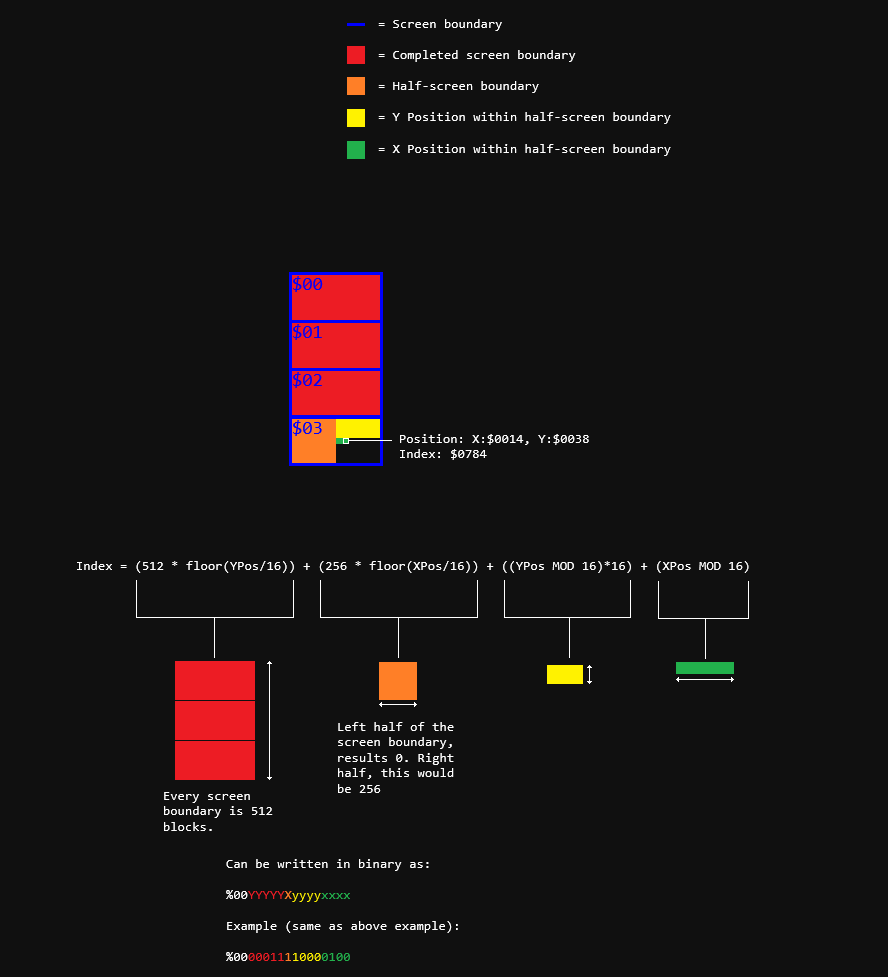
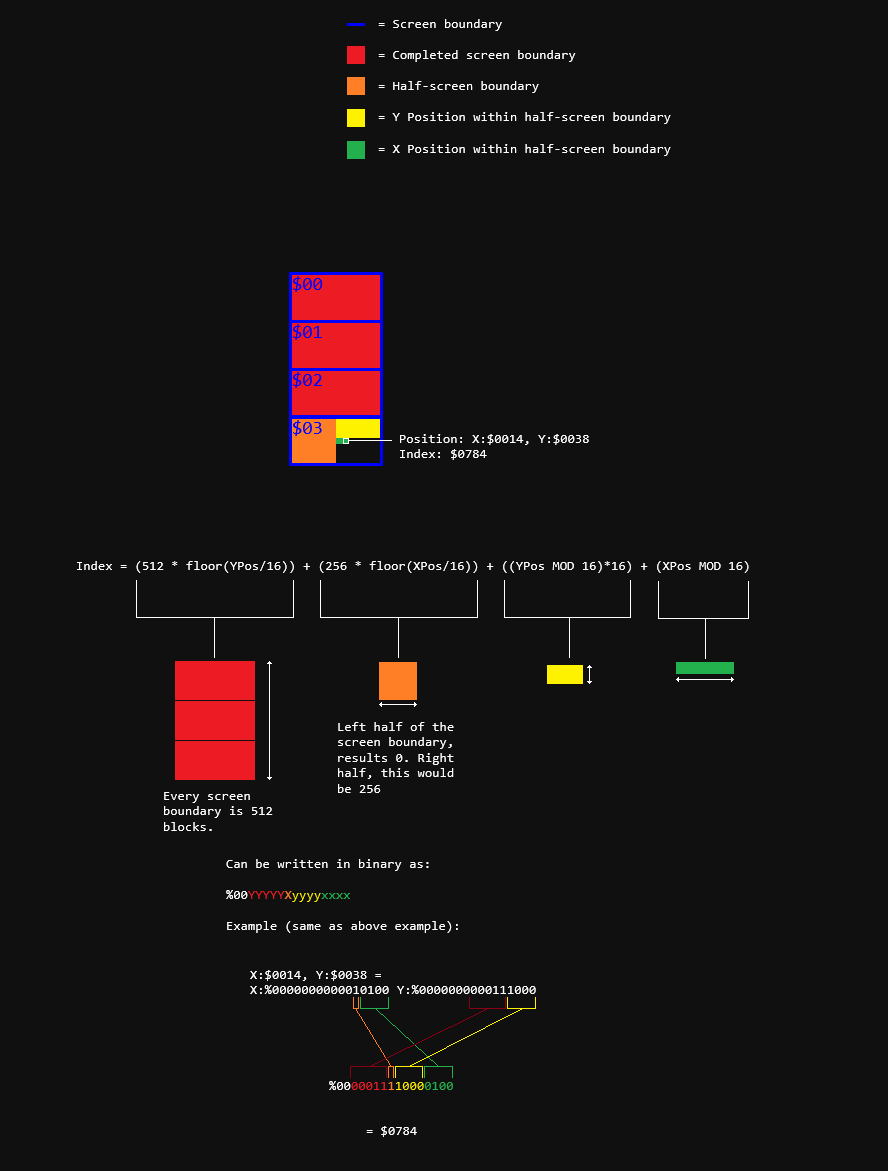
better explanation

diff --git a/C800DataFormatExplained.html b/C800DataFormatExplained.html
@@ -62,7 +62,7 @@
 	</ol>
 </div>
 <h1><a id="TOC_Introduction" href="#TOCBack_Introduction">^</a>Introduction</h1>
-<p>In SMW, when any level save for boss levels is loaded, the tile data, which keeps track of every tile on how Mario and sprites interact with blocks on layer 1 (or layer 2), are stored in RAM <kbd>$7EC800</kbd> for low byte map16 numbers and <kbd>$7FC800</kbd> for the high bytes.</p>
+<p>In SMW, during levels, save for boss levels, is loaded, the tile data, which keeps track of every tile on how Mario and sprites interact with blocks on layer 1 (or layer 2), are stored in RAM <a href="https://smwc.me/m/smw/ram/7EC800"><kbd>$7EC800</kbd></a> for low byte map16 numbers and <a href="https://smwc.me/m/smw/ram/7FC800"><kbd>$7FC800</kbd></a> for the high bytes.</p>
 
 <p>In a SA-1 game, it would be at address <kbd>$40C800</kbd> and <kbd>$41C800</kbd> instead.</p>
 
@@ -104,7 +104,7 @@ Therefore they correspond:
 differs depending on horizontal level and vertical level. Since LM added custom horizontal level dimensions, that also differs the layout of the blocks.</p>
 <p>Notes:
 	<ul>
-		<li>Coordinates discussed here are in units of blocks, not pixels. To convert pixels to blocks, do <span class="MathFormula">BlockXPos = floor(PixelXPos/16)</span> and <span class="MathFormula">BlockYPos = floor(PixelYPos/16)</span>. <a href="https://en.wikipedia.org/wiki/Floor_and_ceiling_functions"><kbd>floor()</kbd></a> is a function
+		<li>Coordinates discussed here are in units of blocks, not pixels. To convert pixel coordinates to block coordinates, do <span class="MathFormula">BlockXPos = floor(PixelXPos/16)</span> and <span class="MathFormula">BlockYPos = floor(PixelYPos/16)</span>. <a href="https://en.wikipedia.org/wiki/Floor_and_ceiling_functions"><kbd>floor()</kbd></a> is a function
 		that rounds down a number; picking the highest integer less-than or equal to the input.</li>
 		<li>As always, X increases going rightwards, and Y increases going downwards. 2D Computer graphics often have the Y-axis orientated downwards, the same way how we read english text.</li>
 	</ul>
@@ -116,9 +116,11 @@ differs depending on horizontal level and vertical level. Since LM added custom 
 	<img src="Readme_files/SMW_RowMajorBlocksPerScreen.png">
 	</p>
 	
-	<p>Now, I used the term &ldquo;screen columns&rdquo; for a reason. When enumerating past the last block within the screen exit boundary (the blue-bordered chunks seen in Lunar Magic when &ldquo;View Screen Exits&rdquo;) is turned on,
-	you advance to the top-leftmost block of a screen exit <b>below</b>, rather than the screen exit <b>to the right</b> (unlike the screen exit numbering). If the bottom of the level is reached, then it would be the top screen exit to the right:
-	<img src="Readme_files/SMW_ColumnMajorScreenColumn.png">
+	<p>Now, I used the term &ldquo;screen columns&rdquo; for a reason. When enumerating past the last block within the screen exit boundary (the blue-bordered chunks seen in Lunar Magic when &ldquo;View Screen Exits&rdquo; is turned on),
+	you advance to the top-leftmost block of a screen exit <b>below</b>, rather than the screen exit <b>to the right</b> (unlike the screen exit numbering). If the bottom of the level is reached, however, then it would be the top screen exit to the right, for example:
+	<img src="Readme_files/SMW_ColumnMajorScreenColumn.png"><br>
+	Starting from screen $00, blocks are enumerated left to right, and going past the rightmost block in the screen column, the next block would be the leftmost block but now down a row, and repeats. When the bottom row's last block in a screen exit boundary is reached (shown in red),
+	the next block would be the top-leftmost block the screen below (in orange). Finally, when reaching the bottom of the level, after the last block in the screen column (yellow), the next block would be the first block of the next column (green).
 	</p>
 	<div class="Indent">
 		<h2><a id="TOC_CalculateHorizLevels" href="#TOCBack_CalculateHorizLevels">^</a>Calculating Index &lt;-&gt; Coordinates of horizontal levels</h2>
@@ -128,7 +130,7 @@ differs depending on horizontal level and vertical level. Since LM added custom 
 		<p>Formula in text form:
 			<ul>
 				<li>Obtain Index: <span class="MathFormula">Index = (BlocksPerScrnCol * floor(XPos/16)) + (YPos*16) + (XPos MOD 16)</span></li>
-				<li>Obtain X and Y positions:
+				<li>Obtain X and Y positions (lots of <a href="https://en.wikipedia.org/wiki/Euclidean_division">euclidean division</a> being used):
 					<ul>
 						<li class="MathFormula">XPos = (floor(BlockIndex/BlocksPerScreenColumn)*16) + (Index MOD 16)</li>
 						<li class="MathFormula">YPos = floor((BlockIndex MOD BlocksPerScreenColumn)/16)</li>
@@ -138,8 +140,8 @@ differs depending on horizontal level and vertical level. Since LM added custom 
 			Notes:
 			<ul>
 				<li>
-					RAM <kbd><a href="https://smwc.me/m/smw/ram/7E13D7">$13D7 ($73D7 in SA-1)</a></kbd> is the level height in pixels, because of powers of 2 and every screen column in horizontal levels are always 16 blocks wide, this is also
-					the number of blocks per screen column.
+					RAM <kbd><a href="https://smwc.me/m/smw/ram/7E13D7">$13D7 ($73D7 in SA-1)</a></kbd> is the level height in pixels, but because every screen column in horizontal levels are always 16 blocks wide, and that blocks are always 16 pixels high,
+					this is also the number of blocks per screen column (we do this: <span class="MathFormula">LevelHeightInBlocks = LevelHeightInPixels / 16 pixels per block</span> &rarr; <span class="MathFormula">BlocksPerScreenColumn = LevelHeightInBlocks * 16</span>, resulting in dividing by 16, then multiplying back up by 16).
 				</li>
 				<li>
 					<kbd>Mod</kbd> is the modulo operator, the remainder of dividing two numbers. For example: <span class="MathFormula">18/16</span>, in <a href="https://en.wikipedia.org/wiki/Euclidean_division">Euclidean Division</a>, is <span class="MathFormula">quotient = 1, remainder = 2</span>. therefore
@@ -161,7 +163,7 @@ differs depending on horizontal level and vertical level. Since LM added custom 
 	<div class="Indent">
 		<img src="Readme_files/ComputationVertLevel.png">
 	
-		<p>Similar to horizontal levels, but because there are no dimension settings for vertical levels, the task is much easier, and even more so thanks to the fact that each screen's width and height and the number of blocks are all powers of 2, making easy use of bitwise operations.
+		<p>Similar to horizontal levels, but because there are no dimension settings for vertical levels, the task is much easier, and even more so thanks to the fact that each screen's width and height and the number of blocks are all powers of 2, making easy use of bitwise operations (just re-arrange the sequence of bits).
 		In fact, the index in binary is %00YYYYYXyyyyxxxx, where uppercase X and Y represents what screen boundary and what halves (X = 0 for left and 1 for right) within a screen boundary.</p>
 		<p>Formulas:
 		<ul>
@@ -223,7 +225,7 @@ differs depending on horizontal level and vertical level. Since LM added custom 
 		&ldquo;Auto-Set Number of Screens&rdquo; in the &ldquo;General Options&rdquo; if you need to change that). The provided tool will always assume the full width and height on determining what RAM is used or not.</p>
 	</li>
 	
-	<li><p>Thankfully, during block interaction (including during custom block code), <kbd>$98</kbd>-<kbd>$9B</kbd> (scratch RAM <kbd>$0A</kbd>-<kbd>$0D</kbd> for sprites after executing <kbd>$019138</kbd>) while processing layer 2,
+	<li><p>Thankfully, during block interaction (including during custom block code), <kbd>$98</kbd>-<kbd>$9B</kbd> (scratch RAM <kbd>$0A</kbd>-<kbd>$0D</kbd> for sprites after executing <kbd>$019138</kbd>) while processing layer 2 (RAM <a href="https://smwc.me/m/smw/ram/7E1933"><kbd>$1933</kbd></a> set to <kbd>#$01</kbd>),
 	their XY positions are relative to the top-left of layer 2, not the level, so this means that if you touch the top-left block on layer 2, regardless of the layer 2 positioning ((<kbd>$1E</kbd> or
 	<kbd>$1466</kbd>), (<kbd>$20</kbd> or <kbd>$1468</kbd>)), collision point will read as (<kbd>$000*</kbd>, <kbd>$000*</kbd>). This means you first check <kbd>$1933</kbd>, simply take the coordinates (if in pixels, divide by 16; <kbd>LSR #4</kbd>) as if
 	they're layer 1, use the routine to convert to <kbd>$C800</kbd> indexing, and then load where the byte starts for layer 2. The list of layer 2 address follows:
